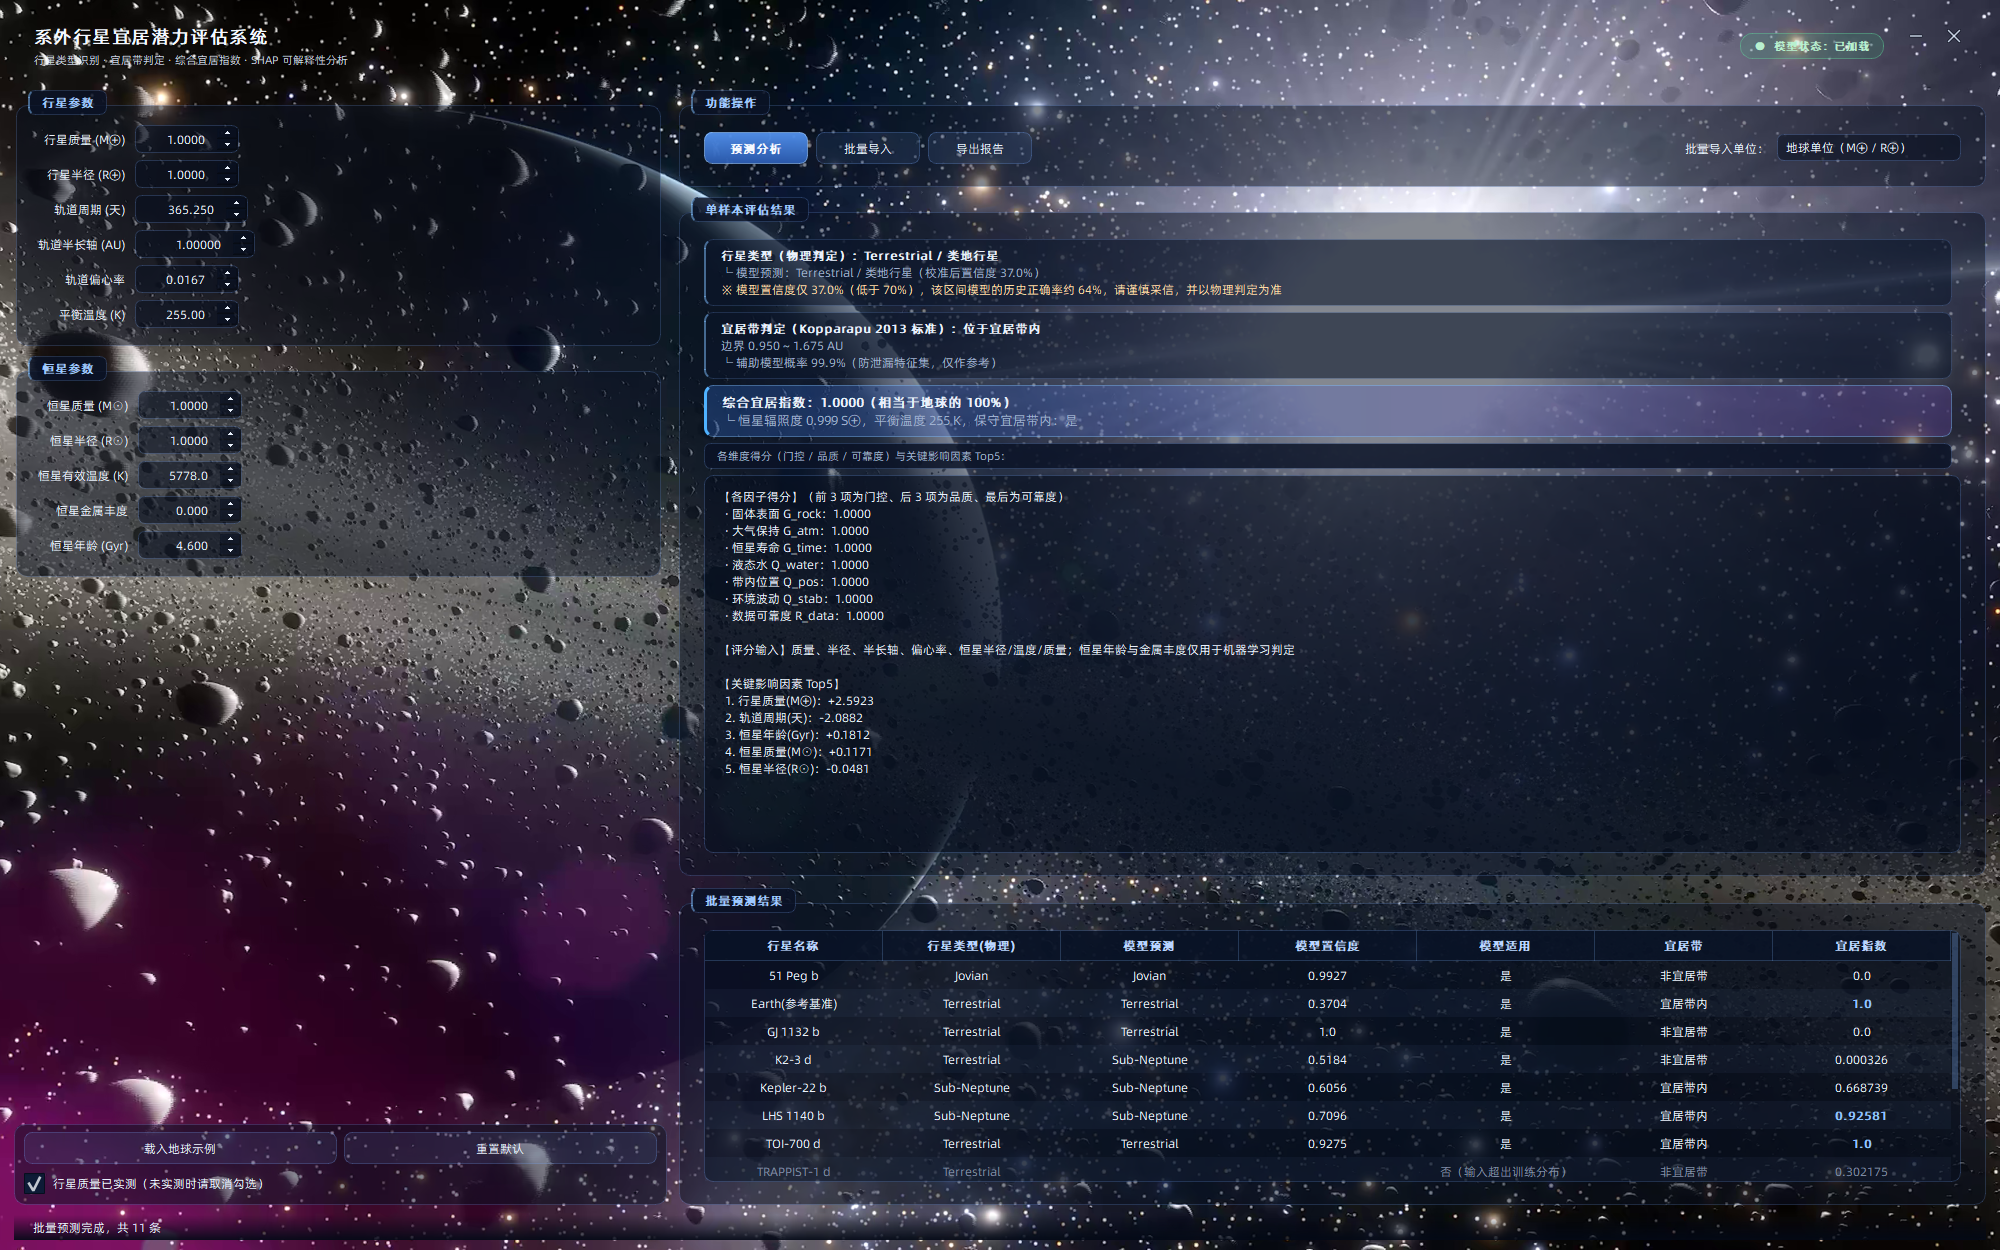
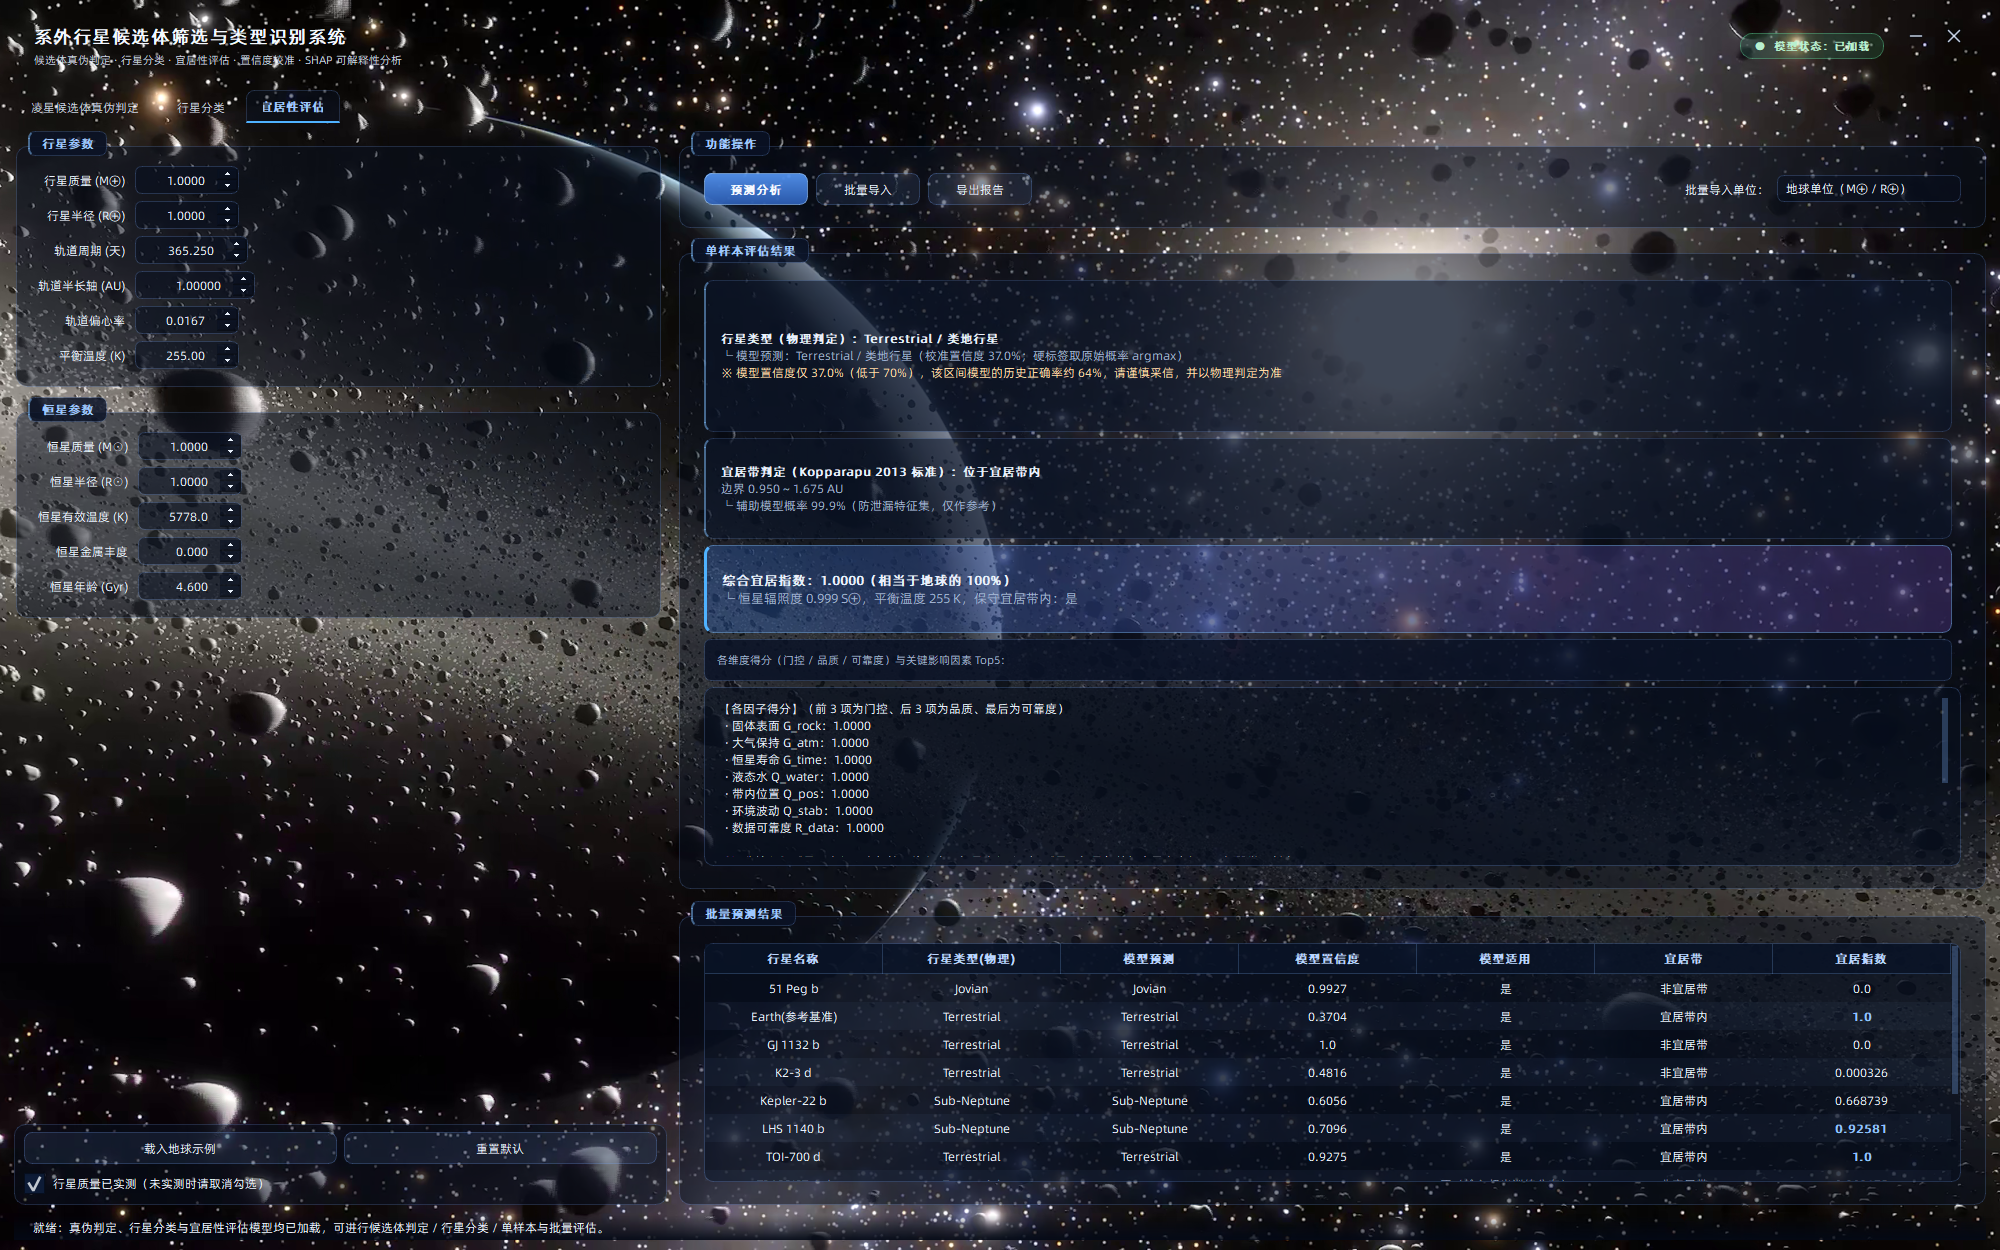
同步三页 GUI 与最新论文口径

diff --git a/README.md b/README.md
@@ -1,10 +1,10 @@
 <div align="center">
 
-# 基于集成学习的系外行星宜居潜力评估与可解释性分析系统
+# 基于集成学习的系外行星候选体筛选与类型识别研究
 
-**Exoplanet Habitability Assessment &amp; Interpretability System**
+**Exoplanet Candidate Vetting &amp; Type Identification with Ensemble Learning**
 
-本科毕业设计项目　·　四层任务流水线（含前置候选体筛选）+ SHAP 可解释性 + PyQt5 桌面交互系统
+本科毕业设计项目　·　候选体真伪判定 + 行星类型识别 + 宜居性评估（辅助）+ SHAP 可解释性 + PyQt5 桌面交互系统
 
 ![Python](https://img.shields.io/badge/Python-3.9%2B-3776AB?logo=python&logoColor=white)
 ![scikit-learn](https://img.shields.io/badge/scikit--learn-1.9.1-F7931E?logo=scikitlearn&logoColor=white)
@@ -14,7 +14,7 @@
 ![code](https://img.shields.io/badge/code-MIT-blue)
 ![data](https://img.shields.io/badge/data-CC--BY--4.0-lightgrey)
 
-`5986 颗确认行星`　`98 个原始字段`　`181 个实验产物`　`71 张 300 DPI 图表`　`随机种子 42`
+`5986 颗确认行星`　`98 个原始字段`　`196 个实验产物`　`83 张 300 DPI 图表`　`随机种子 42`
 
 </div>
 
@@ -353,6 +353,8 @@ OBSERVATIONAL_FIELDS = ["detection_type", "detection_type_encoded", "discovered"
 
 ## PyQt5 桌面交互系统
 
+界面分三个标签页：**凌星候选体真伪判定**（默认页）、**行星分类**与**宜居性评估**。
+
 ![桌面系统](figures/08_gui_fullscreen.png)
 
 - **单样本预测**：输入质量、半径、轨道周期、偏心率、恒星质量与温度，
@@ -363,13 +365,36 @@ OBSERVATIONAL_FIELDS = ["detection_type", "detection_type_encoded", "discovered"
 - **演示级界面**：无边框全屏窗口、循环星云背景视频、开屏动画与背景音乐
   （顶部标题横幅与底部状态条全透明，只留文字压在背景上）。
 
+### 行星分类页
+
+![行星分类页](figures/12_gui_classification.png)
+
+- **7 个非泄漏特征**：质量、轨道周期、偏心率、恒星质量、恒星半径、恒星金属丰度、恒星年龄；
+  半径、半长轴和恒星有效温度不进入模型，避免标签泄漏；
+- **受限推断**：半径已知时直接按 1.7 / 3.9 / 6.0 R⊕ 阈值判型；半径缺失时才用模型给出四类概率；
+- **置信度与边界**：硬标签取原始概率 argmax，校准概率只用于显示置信度；海王星类与亚海王星给出边界提示；
+- **TreeSHAP**：展示影响本次分类的前 5 个特征贡献。
+
+### 前置层标签页 · 凌星候选体真伪判定
+
+![前置层判定页](figures/11_gui_koi_vetting.png)
+
+- **输入 11 项凌星观测量**，分组与顺序与训练时的特征顺序一致
+  （凌星观测 / 行星导出量 / 宿主恒星量，即实验里的 V1→V3 档位阶梯）；
+- **三组一键演示样本**：真实行星（Kepler-62 e，P = 0.9882）、假阳性（恒星食，
+  P = 0.0010）、临界样本（Kepler-804 c，P = 0.4971），现场可当场复现；
+- **不确定区间不采信**：概率落在 0.35~0.65 时界面不给结论。依据是测试集分段实测——
+  该区间 33 条样本的正确率仅 54.5%，而两侧分别为 93.2%（≥ 0.65）与 71.9%（< 0.35）；
+- **单样本 TreeSHAP**：给出把结论推向「真实行星 / 假阳性」的 Top6 特征及贡献值；
+- **边界清楚**：本页只做前置筛选，判定结论不参与综合宜居指数评分。
+
 ---
 
 ## 工程实践
 
 | 实践 | 说明 |
 | --- | --- |
-| **一键复现** | `python run_all.py` 依次跑完预处理 → 三层实验 → SHAP → 多行星系统 / 前置层，实测 **791 s**、退出码 0，181 个产物全部自动落盘 |
+| **一键复现** | `python run_all.py` 依次跑完预处理 → 前置层 / 三层实验 → SHAP → 多行星系统与稳健性检验，实测 **597 s**、退出码 0，196 个产物全部自动落盘 |
 | **图表规格** | 全部 300 DPI，中文显示自动配置回退字体链，可直接进论文 |
 | **可复现性** | 全局随机种子 42，所有划分 / 采样 / 训练可复现 |
 | **折内重采样** | SMOTE 只在训练折内做，避免合成样本渗漏到验证 |
@@ -385,7 +410,7 @@ OBSERVATIONAL_FIELDS = ["detection_type", "detection_type_encoded", "discovered"
 # 1. 环境
 pip install -r requirements.txt
 
-# 2. 一键跑完全部实验（约 13 分钟）
+# 2. 一键跑完全部实验（约 10 分钟）
 python run_all.py
 
 # 3. 启动桌面系统
